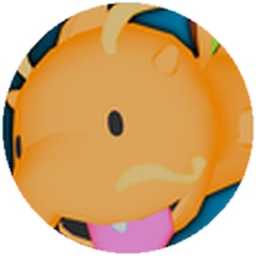
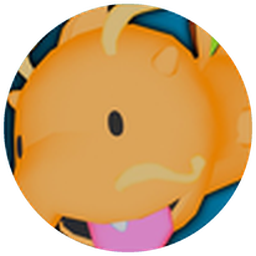
m-3d: Chess Ultimate 3D cutouts browser-checked on main and kept; Minion/Dragon/Fisherman cutouts redone as clean round medallions (were ragged flood-fill crops)

diff --git a/tools/cu3d_cutout.py b/tools/cu3d_cutout.py
@@ -4,7 +4,16 @@ from PIL import Image, ImageFilter
 from collections import deque
 SRC, OUT, TOL = sys.argv[1], sys.argv[2], float(sys.argv[3]) if len(sys.argv) > 3 else 12
 os.makedirs(OUT, exist_ok=True)
+# art that fills its whole disc (no background to cut away): a clean anti-aliased round medallion inside the ring
+ROUND = ('Dragon', 'Fisherman', 'Minion')
 for f in sorted(glob.glob(SRC + '/*_w.png')):
+    if os.path.basename(f)[:-6] in ROUND:
+        src = Image.open(f).convert('RGBA'); w0 = src.size[0]; SS = 4
+        m = Image.new('L', (w0 * SS, w0 * SS), 0); from PIL import ImageDraw
+        rr = w0 * SS * .78 / 2; c0 = w0 * SS / 2; ImageDraw.Draw(m).ellipse((c0 - rr, c0 - rr, c0 + rr, c0 + rr), fill=255)
+        src.putalpha(m.resize((w0, w0), Image.LANCZOS)); out = src.crop(src.getbbox())
+        S = max(out.size); sq = Image.new('RGBA', (S, S), (0, 0, 0, 0)); sq.paste(out, ((S - out.size[0]) // 2, S - out.size[1]))
+        sq.resize((256, 256), Image.LANCZOS).save(os.path.join(OUT, os.path.basename(f).replace('_w.png', '.png'))); continue
     im = np.array(Image.open(f).convert('RGBA')).astype(float); h, w = im.shape[:2]; cx, cy = w / 2, h / 2
     yy, xx = np.mgrid[0:h, 0:w]; r = np.hypot(xx - cx + .5, yy - cy + .5) / (w / 2)
     # the disc's light gradient: per-row colour sampled just inside the ring on both sides (median of a band)

diff --git a/research/polish_report.md b/research/polish_report.md
@@ -514,3 +514,8 @@ RESUME (11:20 AM ET, cut off by usage): wip/lobby @ f935779, NOT on main. Checks
   (trashbot1999-bot, the-master-bot, visualization-25). URLs in each mode's source.notes.
 - LjehdkzmCho (Seirawan): E_w = the clean chess.com S-Chess elephant (fin-art-b's hk85bBLSi7Q/elephant_w.png; old cut had the
   board square filled inside the trunk curl); E_b green base-band bleed neutralised.
+
+## m-3d (2026-11-26)
+Items: HANDOFF #2 (Chess Ultimate cu cutouts + game-fx second half), #3 (3D audit batch 2 + staunton3d), then #4 (Battle Chess polish). Clone /workspace/work/m_m-3d, main only.
+- #2 cu preset (134b237) browser-checked on main (390x844, SwiftShader): cutouts stand on the tiles, blue/red team rings, Giant 2x2 uses cu3d/Giant.png (ehlf0_asIKo), 0 console errors; matches research/ref/fin-battle/sheets/ref_cu.jpg better than the old tokens -> KEPT. Fixed: Minion/Dragon/Fisherman cutouts were ragged flood-fill crops -> clean anti-aliased round medallions (tools/cu3d_cutout.py ROUND list).
+RESUME 12:55 PM ET: cu kept + medallion fix pushed; next = game-fx 47-id browser check, then audit batch 2.
